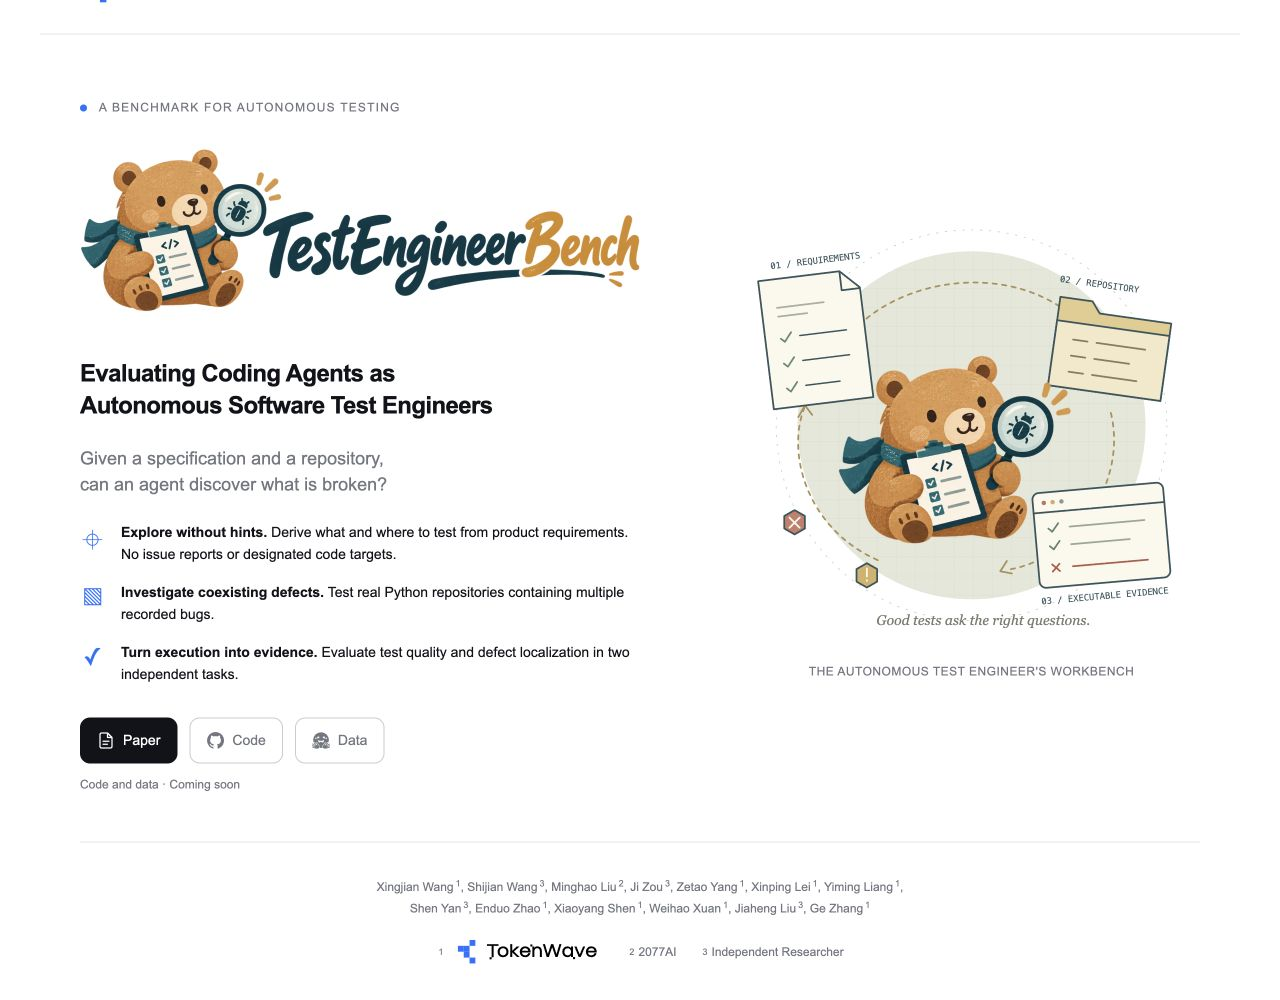
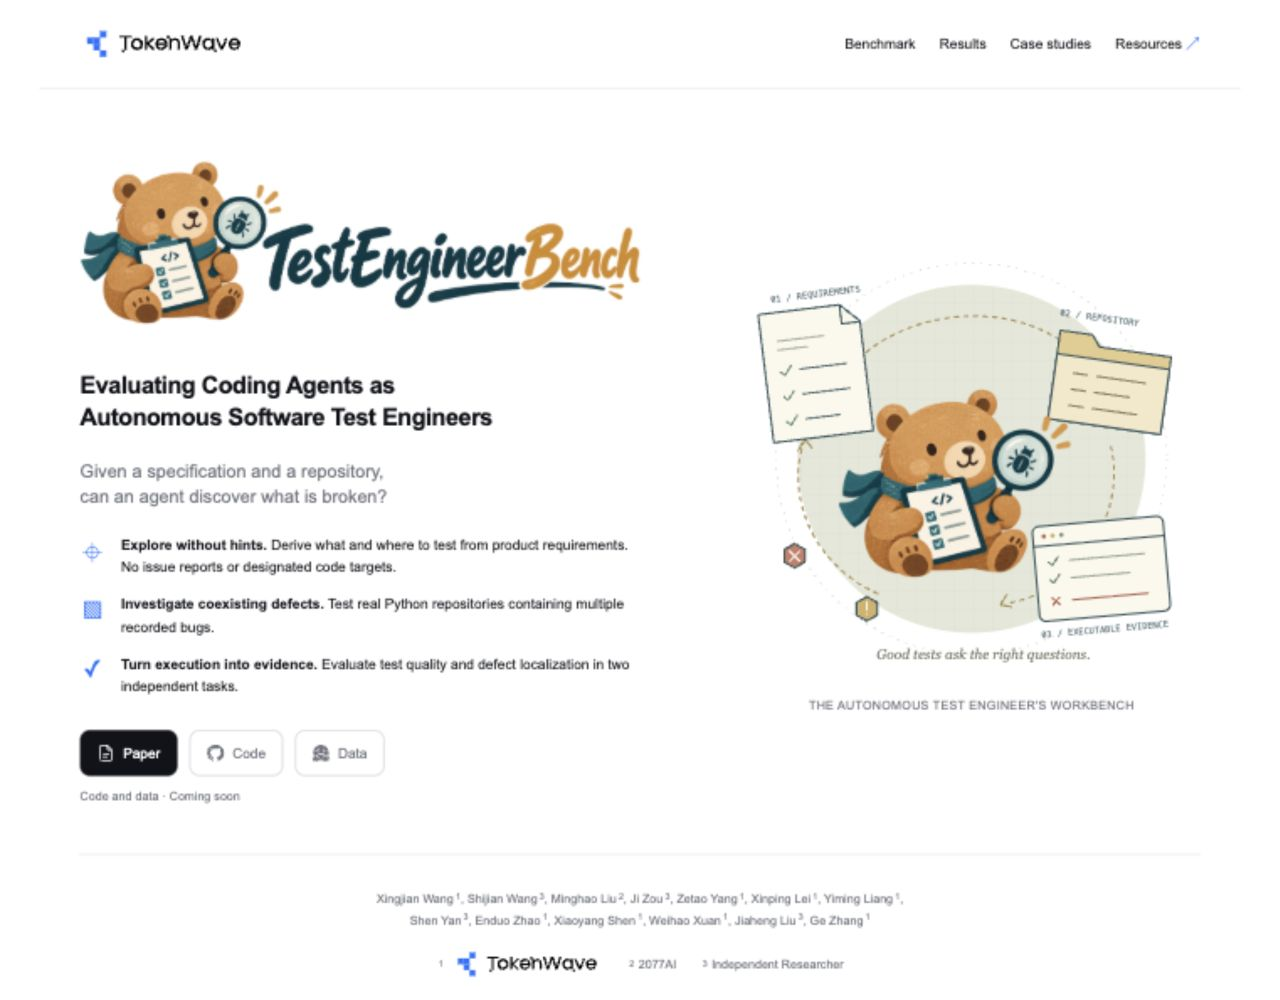
Remove the hero eyebrow label

diff --git a/index.html b/index.html
@@ -12,7 +12,7 @@
 <header class="topbar"><a class="brand tokenwave-brand" href="#" aria-label="TokenWave — back to top"><img src="assets/tokenwave.svg" alt="TokenWave" width="475" height="113"></a><nav aria-label="Main navigation"><a href="#benchmark">Benchmark</a><a href="#results">Results</a><a href="#cases">Case studies</a><a href="#resources">Resources <span>↗</span></a></nav></header>
 <main>
 <section class="hero wide" aria-labelledby="title">
-<div class="hero-copy"><p class="eyebrow"><span class="dot"></span> A BENCHMARK FOR AUTONOMOUS TESTING</p><h1 id="title" class="wordmark-heading"><span class="sr-only">TestEngineerBench</span><img class="hero-wordmark" src="assets/logo-display.png" alt="" width="2107" height="697"></h1><h2>Evaluating Coding Agents as <br>Autonomous Software Test Engineers</h2>
+<div class="hero-copy"><h1 id="title" class="wordmark-heading"><span class="sr-only">TestEngineerBench</span><img class="hero-wordmark" src="assets/logo-display.png" alt="" width="2107" height="697"></h1><h2>Evaluating Coding Agents as <br>Autonomous Software Test Engineers</h2>
 <p class="hero-question">Given a specification and a repository, <br>can an agent discover what is broken?</p>
 <div class="premises"><p><span class="line-icon">⌖</span><span><strong>Explore without hints.</strong> Derive what and where to test from product requirements. No issue reports or designated code targets.</span></p><p><span class="line-icon">▧</span><span><strong>Investigate coexisting defects.</strong> Test real Python repositories containing multiple recorded bugs.</span></p><p><span class="line-icon">✓</span><span><strong>Turn execution into evidence.</strong> Evaluate test quality and defect localization in two independent tasks.</span></p></div>
 <div class="actions resource-actions"><a class="button primary" href="assets/paper.pdf" target="_blank" rel="noopener"><svg class="button-icon" viewBox="0 0 24 24" fill="none" stroke="currentColor" stroke-width="1.7" stroke-linecap="round" stroke-linejoin="round" aria-hidden="true"><path d="M14 2H6a2 2 0 0 0-2 2v16a2 2 0 0 0 2 2h12a2 2 0 0 0 2-2V8z"/><path d="M14 2v6h6M8 13h8M8 17h6"/></svg><span>Paper</span></a><button class="button release-pending" type="button" disabled title="Code coming soon" aria-label="Code — coming soon"><svg class="button-icon" viewBox="0 0 24 24" fill="currentColor" aria-hidden="true"><path d="M12 .75a11.25 11.25 0 0 0-3.558 21.923c.562.104.768-.244.768-.542 0-.267-.01-.974-.015-1.912-3.13.68-3.791-1.508-3.791-1.508-.512-1.3-1.25-1.646-1.25-1.646-1.022-.699.078-.685.078-.685 1.13.08 1.725 1.16 1.725 1.16 1.005 1.723 2.637 1.225 3.28.937.102-.728.393-1.225.715-1.507-2.498-.284-5.124-1.249-5.124-5.56 0-1.228.439-2.232 1.159-3.018-.116-.285-.503-1.429.111-2.978 0 0 .945-.303 3.094 1.153A10.79 10.79 0 0 1 12 6.189c.956.005 1.919.129 2.819.378 2.148-1.456 3.092-1.153 3.092-1.153.615 1.549.228 2.693.112 2.978.721.786 1.158 1.79 1.158 3.018 0 4.322-2.63 5.273-5.136 5.552.404.35.763 1.043.763 2.1 0 1.516-.014 2.739-.014 3.111 0 .3.202.651.774.541A11.252 11.252 0 0 0 12 .75Z"/></svg><span>Code</span></button><button class="button release-pending" type="button" disabled title="Data coming soon" aria-label="Data — coming soon"><svg class="button-icon" fill="currentColor" aria-hidden="true" viewBox="0 0 24 24" xmlns="http://www.w3.org/2000/svg"><path d="M12.025 1.13c-5.77 0-10.449 4.647-10.449 10.378 0 1.112.178 2.181.503 3.185.064-.222.203-.444.416-.577a.96.96 0 0 1 .524-.15c.293 0 .584.124.84.284.278.173.48.408.71.694.226.282.458.611.684.951v-.014c.017-.324.106-.622.264-.874s.403-.487.762-.543c.3-.047.596.06.787.203s.31.313.4.467c.15.257.212.468.233.542.01.026.653 1.552 1.657 2.54.616.605 1.01 1.223 1.082 1.912.055.537-.096 1.059-.38 1.572.637.121 1.294.187 1.967.187.657 0 1.298-.063 1.921-.178-.287-.517-.44-1.041-.384-1.581.07-.69.465-1.307 1.081-1.913 1.004-.987 1.647-2.513 1.657-2.539.021-.074.083-.285.233-.542.09-.154.208-.323.4-.467a1.08 1.08 0 0 1 .787-.203c.359.056.604.29.762.543s.247.55.265.874v.015c.225-.34.457-.67.683-.952.23-.286.432-.52.71-.694.257-.16.547-.284.84-.285a.97.97 0 0 1 .524.151c.228.143.373.388.43.625l.006.04a10.3 10.3 0 0 0 .534-3.273c0-5.731-4.678-10.378-10.449-10.378M8.327 6.583a1.5 1.5 0 0 1 .713.174 1.487 1.487 0 0 1 .617 2.013c-.183.343-.762-.214-1.102-.094-.38.134-.532.914-.917.71a1.487 1.487 0 0 1 .69-2.803m7.486 0a1.487 1.487 0 0 1 .689 2.803c-.385.204-.536-.576-.916-.71-.34-.12-.92.437-1.103.094a1.487 1.487 0 0 1 .617-2.013 1.5 1.5 0 0 1 .713-.174m-10.68 1.55a.96.96 0 1 1 0 1.921.96.96 0 0 1 0-1.92m13.838 0a.96.96 0 1 1 0 1.92.96.96 0 0 1 0-1.92M8.489 11.458c.588.01 1.965 1.157 3.572 1.164 1.607-.007 2.984-1.155 3.572-1.164.196-.003.305.12.305.454 0 .886-.424 2.328-1.563 3.202-.22-.756-1.396-1.366-1.63-1.32q-.011.001-.02.006l-.044.026-.01.008-.03.024q-.018.017-.035.036l-.032.04a1 1 0 0 0-.058.09l-.014.025q-.049.088-.11.19a1 1 0 0 1-.083.116 1.2 1.2 0 0 1-.173.18q-.035.029-.075.058a1.3 1.3 0 0 1-.251-.243 1 1 0 0 1-.076-.107c-.124-.193-.177-.363-.337-.444-.034-.016-.104-.008-.2.022q-.094.03-.216.087-.06.028-.125.063l-.13.074q-.067.04-.136.086a3 3 0 0 0-.135.096 3 3 0 0 0-.26.219 2 2 0 0 0-.12.121 2 2 0 0 0-.106.128l-.002.002a2 2 0 0 0-.09.132l-.001.001a1.2 1.2 0 0 0-.105.212q-.013.036-.024.073c-1.139-.875-1.563-2.317-1.563-3.203 0-.334.109-.457.305-.454m.836 10.354c.824-1.19.766-2.082-.365-3.194-1.13-1.112-1.789-2.738-1.789-2.738s-.246-.945-.806-.858-.97 1.499.202 2.362c1.173.864-.233 1.45-.685.64-.45-.812-1.683-2.896-2.322-3.295s-1.089-.175-.938.647 2.822 2.813 2.562 3.244-1.176-.506-1.176-.506-2.866-2.567-3.49-1.898.473 1.23 2.037 2.16c1.564.932 1.686 1.178 1.464 1.53s-3.675-2.511-4-1.297c-.323 1.214 3.524 1.567 3.287 2.405-.238.839-2.71-1.587-3.216-.642-.506.946 3.49 2.056 3.522 2.064 1.29.33 4.568 1.028 5.713-.624m5.349 0c-.824-1.19-.766-2.082.365-3.194 1.13-1.112 1.789-2.738 1.789-2.738s.246-.945.806-.858.97 1.499-.202 2.362c-1.173.864.233 1.45.685.64.451-.812 1.683-2.896 2.322-3.295s1.089-.175.938.647-2.822 2.813-2.562 3.244 1.176-.506 1.176-.506 2.866-2.567 3.49-1.898-.473 1.23-2.037 2.16c-1.564.932-1.686 1.178-1.464 1.53s3.675-2.511 4-1.297c.323 1.214-3.524 1.567-3.287 2.405.238.839 2.71-1.587 3.216-.642.506.946-3.49 2.056-3.522 2.064-1.29.33-4.568 1.028-5.713-.624"/></svg><span>Data</span></button></div><p class="caption release-note">Code and data · Coming soon</p>
